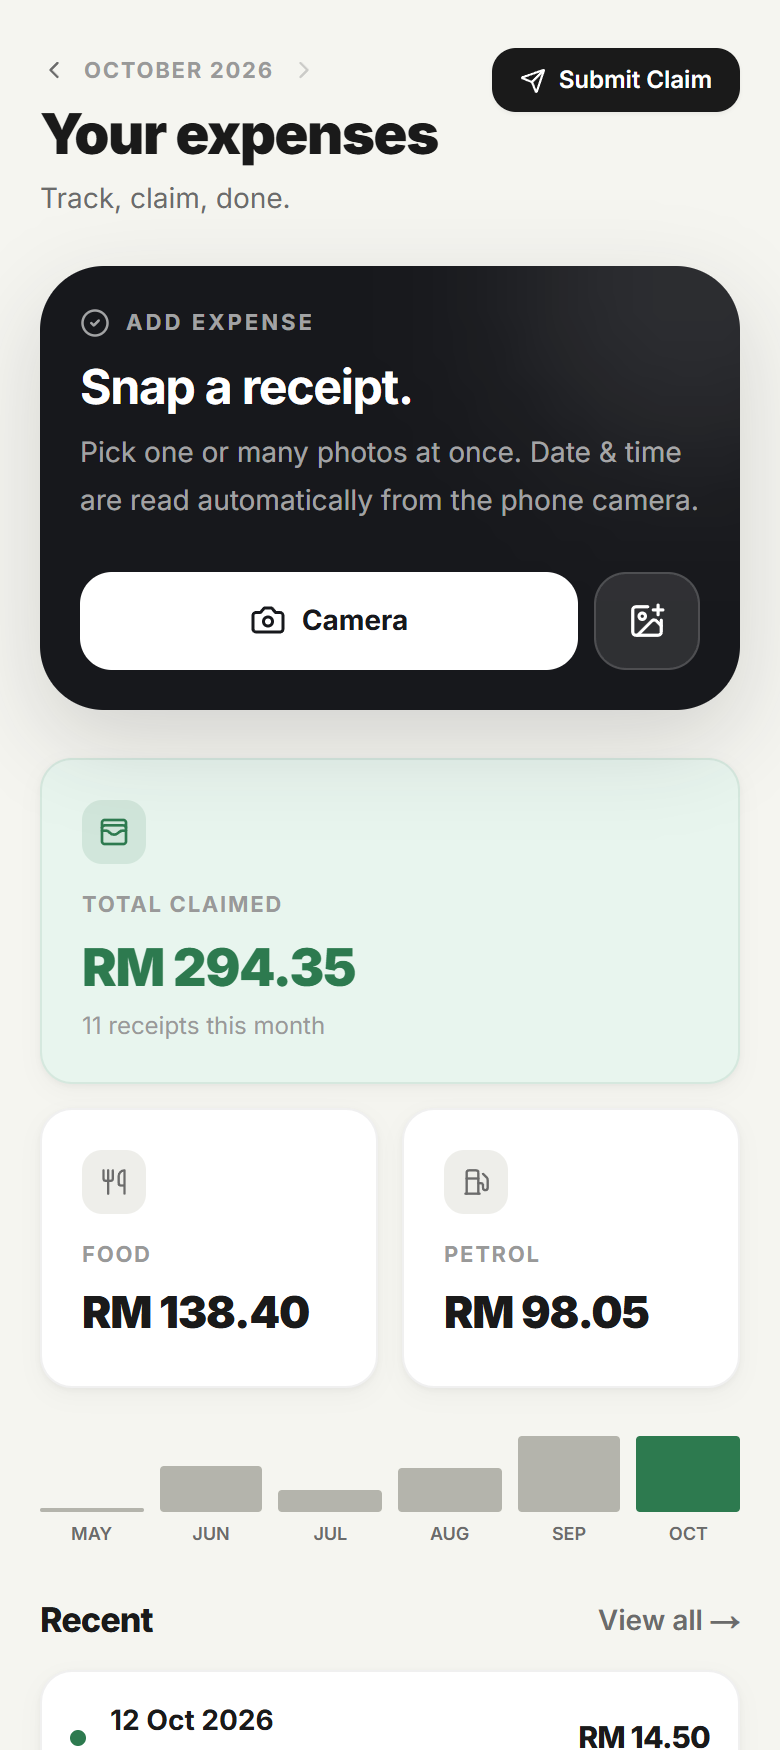
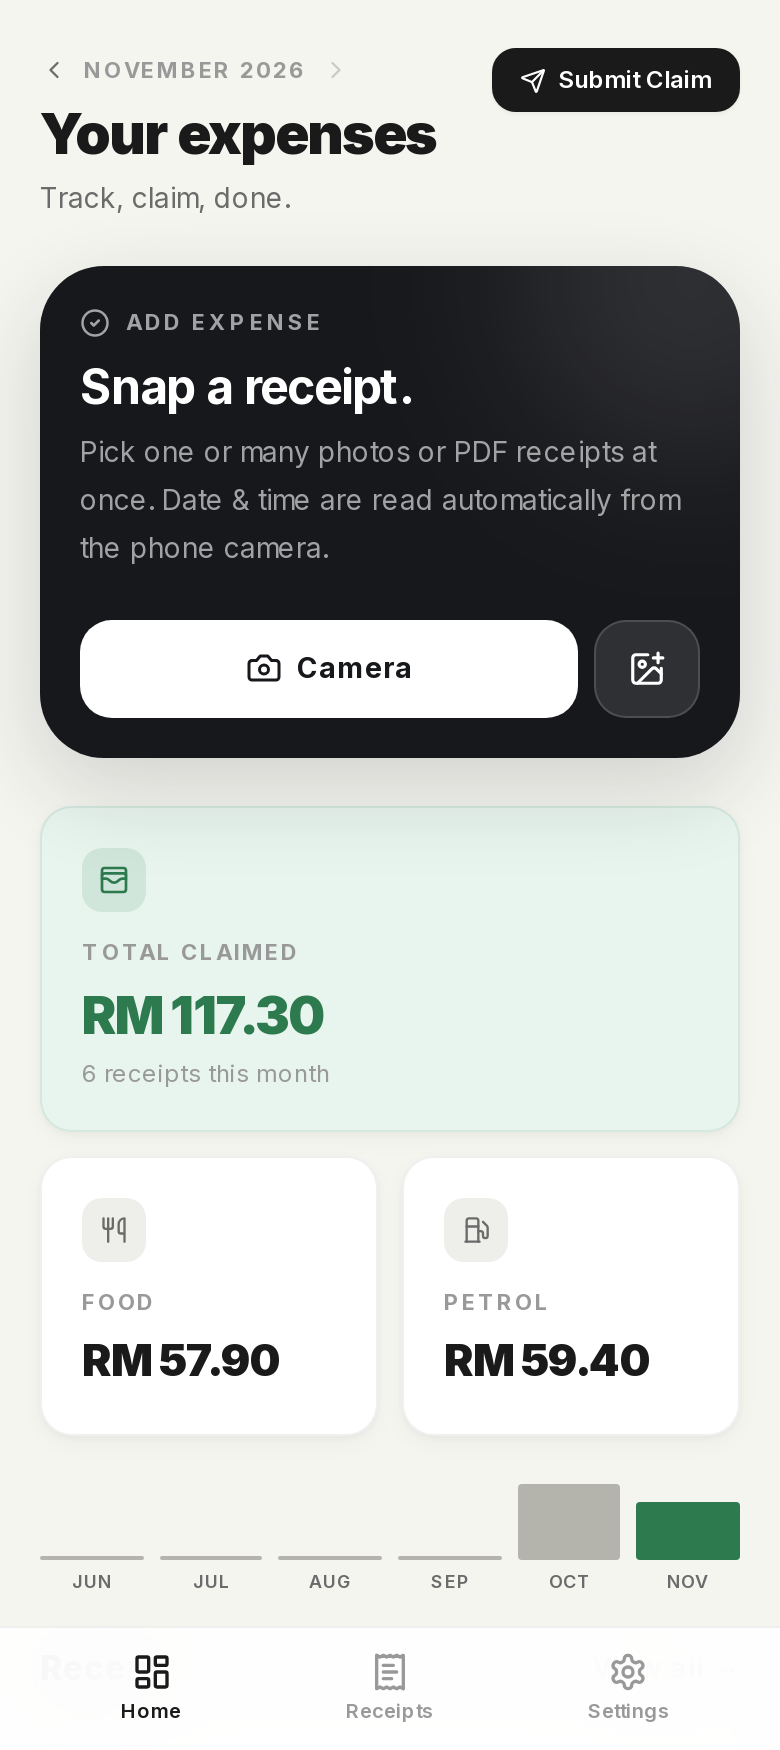
Refresh screenshots with current app and fake demo data

diff --git a/README.md b/README.md
@@ -30,7 +30,11 @@ Claiming expenses meant keeping paper receipts, typing amounts into a spreadshee
 | --- | --- | --- |
 | <img src="docs/dashboard.png" alt="Dashboard" width="230"> | <img src="docs/receipts.png" alt="Receipts" width="230"> | <img src="docs/detail.png" alt="Detail" width="230"> |
 
-The screenshots are from an earlier version, so the newer screens look a little different.
+| Add a receipt |
+| --- |
+| <img src="docs/upload.png" alt="Add a receipt: the date, amount and Dinner are filled in from the photo" width="230"> |
+
+The receipts in these screenshots are made-up samples, and the names are fake.
 
 ## Built with
 
